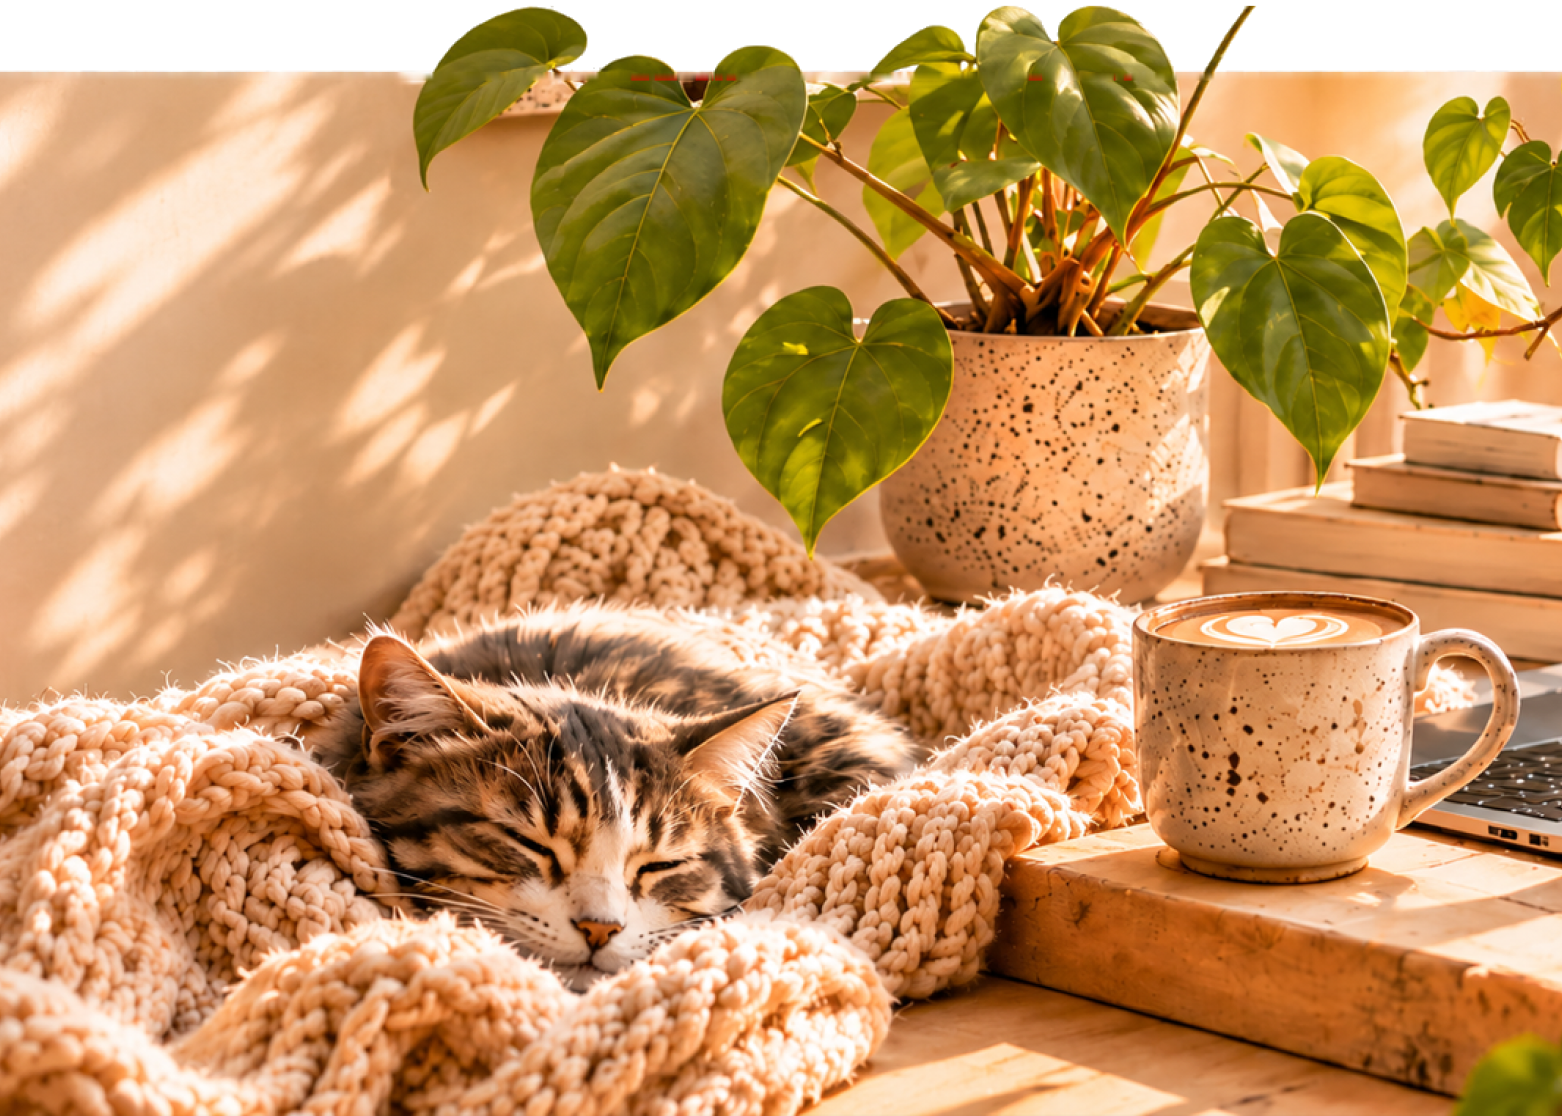
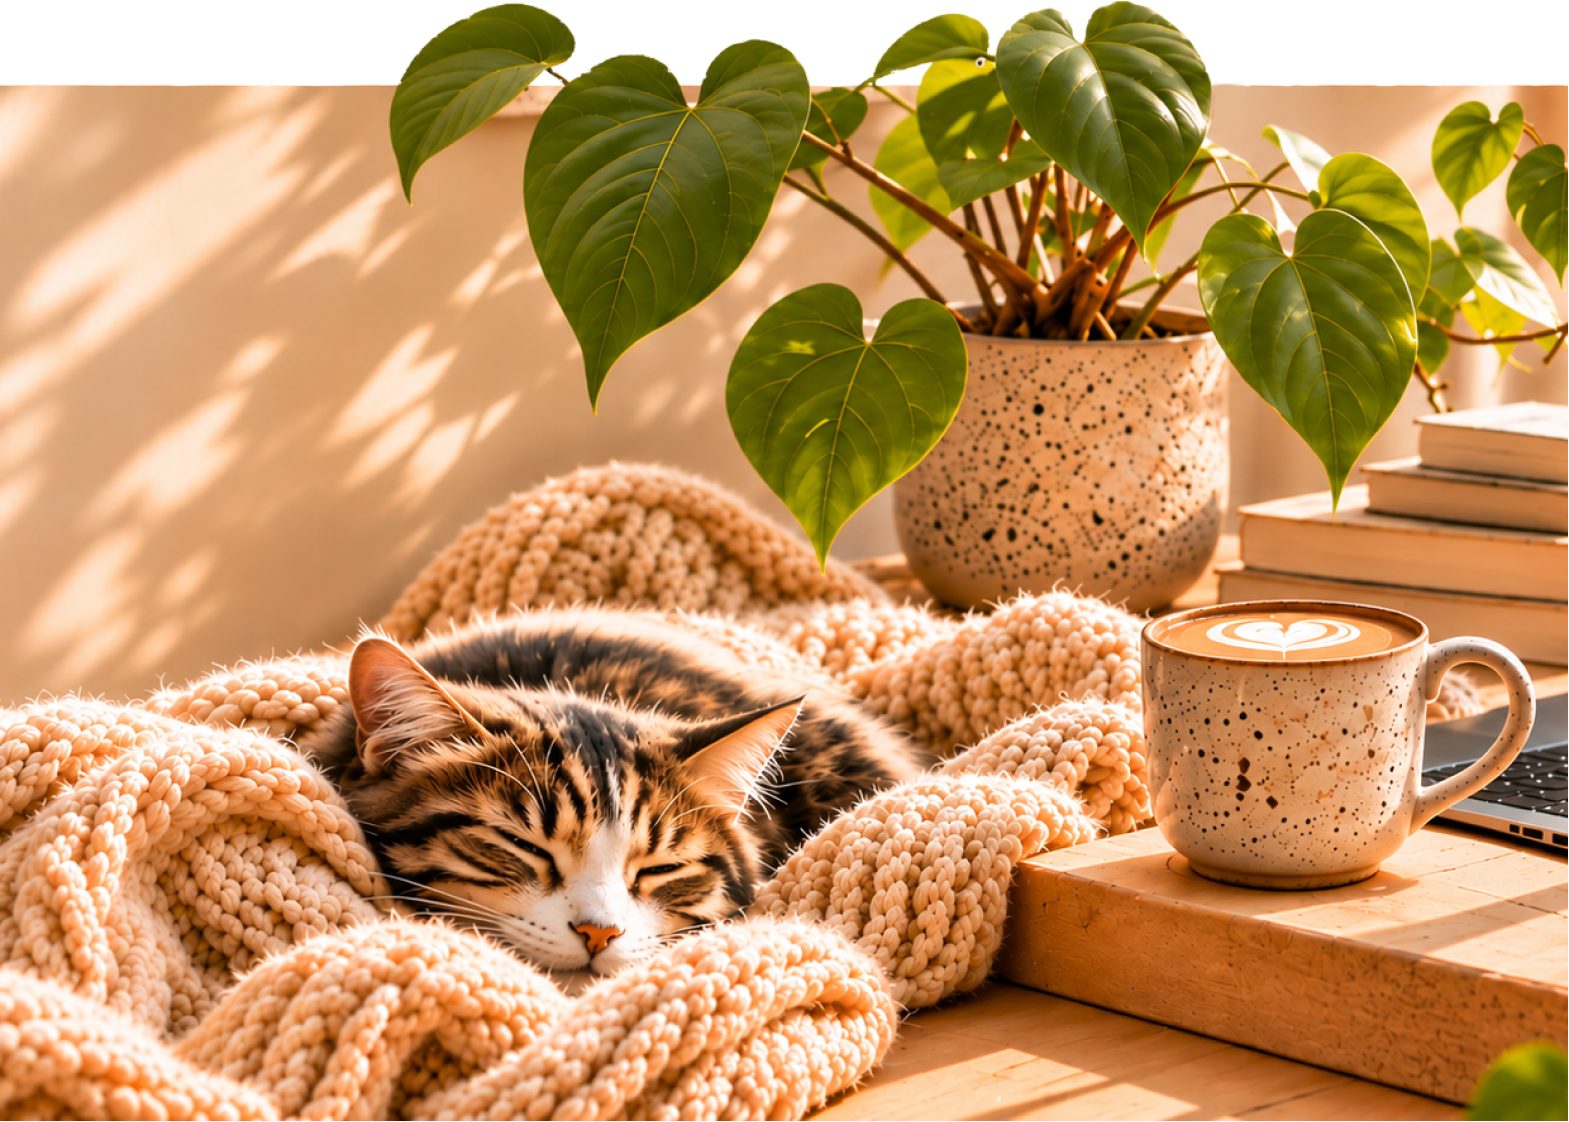
Update hero image, text overlay and hero proportions from Figma

diff --git a/src/App.css b/src/App.css
@@ -75,38 +75,38 @@
 /* Hero */
 .hero {
   position: relative;
-  height: 558px;
+  height: 560.5px;
   overflow: hidden;
 }
 .hero__bg {
   position: absolute;
   left: 0;
-  top: 38px;
+  top: 42.6px;
   width: 100%;
-  height: 520px;
+  height: 518px;
   object-fit: cover;
 }
 .hero__photo {
   position: absolute;
   right: 0;
   top: 0;
-  height: 558px;
-  width: 54%;
+  height: 560.5px;
+  width: 54.45%;
   object-fit: cover;
 }
 .hero__overlay {
   position: absolute;
   left: 88px;
-  top: 38px;
-  /* at 1440px = 768px (as in Figma); on wider screens it grows with the photo seam (46%) */
-  width: calc(46% + 106px);
-  height: 520px;
+  top: 42.6px;
+  /* at 1440px = 768px (as in Figma); on wider screens it grows with the photo seam (45.55%) */
+  width: calc(45.55% + 112px);
+  height: 518px;
 }
 .hero__content {
   position: relative;
   width: 927px;
   max-width: 100%;
-  padding: 73px 64px 0;
+  padding: 77.6px 64px 0;
   display: flex;
   flex-direction: column;
   align-items: center;
